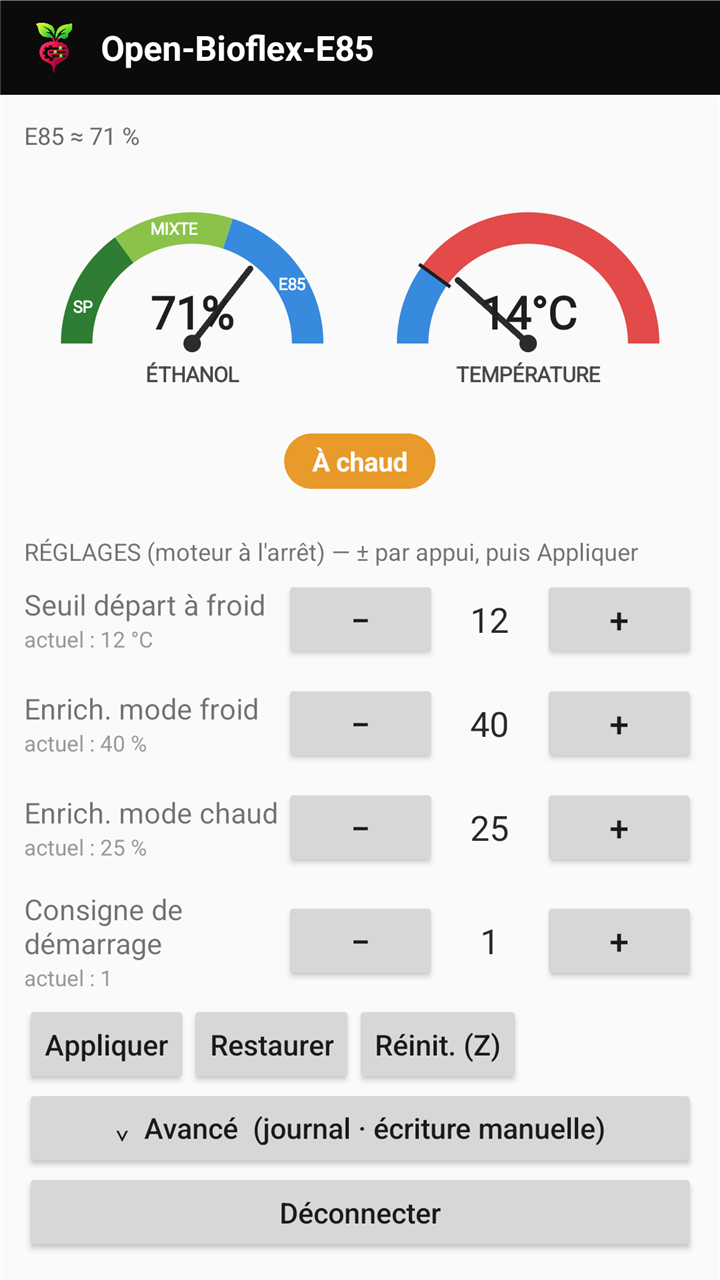
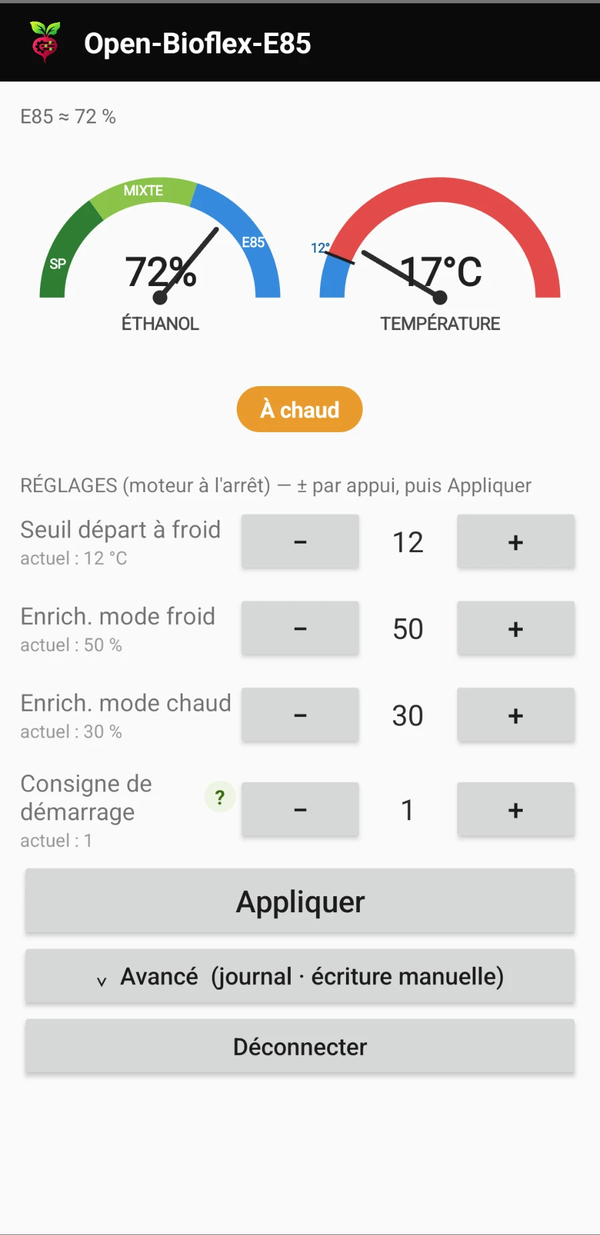
Thème nuit + captures réelles
- Bouton ☾ / ☀ en haut à droite : bascule clair / nuit, choix mémorisé
- Palette appliquée aux écrans, jauges et réglages ; liaison BLE conservée au changement
- Captures d'écran réelles (tableau de bord + sélection) à la place des anciennes

diff --git a/app/src/xyz/ylia/bioflex/MainActivity.java b/app/src/xyz/ylia/bioflex/MainActivity.java
@@ -134,13 +134,48 @@ public class MainActivity extends Activity {
     File logFile;
     final SimpleDateFormat ts = new SimpleDateFormat("HH:mm:ss.SSS", Locale.US);
 
+    // --- Thème clair / nuit ----------------------------------------------
+    // Couleurs dépendantes du thème, fixées par loadTheme() avant de construire l'UI.
+    boolean night = false;
+    int cBg, cText, cDim, cCard;
+    void loadTheme() {
+        night = getSharedPreferences("prefs", MODE_PRIVATE).getBoolean("night", false);
+        if (night) {   // nuit
+            cBg = 0xFF121212; cText = 0xFFECECEC; cDim = 0xFF9AA0A6; cCard = 0xFF2A2A2A;
+        } else {       // clair
+            cBg = 0xFFFAFAFA; cText = 0xFF1F1F1F; cDim = 0xFF6B6B6B; cCard = 0xFFF0F0F0;
+        }
+    }
+    // Bascule le thème et reconstruit l'UI sans couper la liaison Bluetooth.
+    void toggleTheme() {
+        getSharedPreferences("prefs", MODE_PRIVATE).edit().putBoolean("night", !night).apply();
+        boolean wasDash = flipper != null && flipper.getDisplayedChild() == 1;
+        loadTheme();
+        buildUi();
+        if (wasDash || !lastSnapshot.isEmpty()) {
+            flipper.setDisplayedChild(1);
+            setWriteEnabled(connected);
+            if (!lastSnapshot.isEmpty()) updateLive(lastSnapshot);
+        } else {
+            startScan();
+        }
+    }
+
     // =====================================================================
     @Override protected void onCreate(Bundle b) {
         super.onCreate(b);
         // Garder l'écran allumé tant que l'appli est au premier plan (usage en roulant).
         getWindow().addFlags(android.view.WindowManager.LayoutParams.FLAG_KEEP_SCREEN_ON);
 
+        loadTheme();
+        buildUi();
+        initBle();
+    }
+
+    // Construit toute l'interface (rejouée à chaque changement de thème).
+    void buildUi() {
         flipper = new android.widget.ViewFlipper(this);
+        flipper.setBackgroundColor(cBg);
 
         // ===== Écran 1 : sélection du boîtier =====
         LinearLayout scanScreen = new LinearLayout(this);
@@ -151,7 +186,7 @@ public class MainActivity extends Activity {
         int pad = dp(14); selBody.setPadding(pad, pad, pad, pad);
         scanStatus = new TextView(this);
         scanStatus.setText("Recherche du boîtier…");
-        scanStatus.setTextColor(0xFF6B6B6B); scanStatus.setTextSize(13);
+        scanStatus.setTextColor(cDim); scanStatus.setTextSize(13);
         selBody.addView(scanStatus);
         rescanBtn = btn("Rescanner", v -> startScan());
         selBody.addView(rescanBtn);
@@ -159,7 +194,7 @@ public class MainActivity extends Activity {
         selBody.addView(demoBtn);
         TextView hint = new TextView(this);
         hint.setText("Les boîtiers Biomotors apparaissent en vert.");
-        hint.setTextColor(0xFF9A9A9A); hint.setTextSize(11);
+        hint.setTextColor(cDim); hint.setTextSize(11);
         hint.setPadding(0, dp(8), 0, dp(4));
         selBody.addView(hint);
         deviceBox = new LinearLayout(this);
@@ -179,7 +214,7 @@ public class MainActivity extends Activity {
 
         status = new TextView(this);
         status.setText("Connecté.");
-        status.setTextColor(0xFF6B6B6B); status.setTextSize(12);
+        status.setTextColor(cDim); status.setTextSize(12);
         body.addView(status);
 
         LinearLayout gauges = new LinearLayout(this);
@@ -194,11 +229,11 @@ public class MainActivity extends Activity {
 
         modeBadge = new TextView(this);
         modeBadge.setText("Mode : —");
-        modeBadge.setTextColor(0xFF2D5208); modeBadge.setTextSize(13);
+        modeBadge.setTextColor(cText); modeBadge.setTextSize(13);
         modeBadge.setTypeface(android.graphics.Typeface.DEFAULT_BOLD);
         modeBadge.setGravity(android.view.Gravity.CENTER);
         modeBadge.setPadding(dp(16), dp(6), dp(16), dp(6));
-        modeBadge.setBackground(rounded(0xFFF3F7EC, dp(14)));
+        modeBadge.setBackground(rounded(cCard, dp(14)));
         LinearLayout badgeWrap = new LinearLayout(this);
         badgeWrap.setGravity(android.view.Gravity.CENTER);
         badgeWrap.setPadding(0, dp(2), 0, dp(10));
@@ -231,14 +266,16 @@ public class MainActivity extends Activity {
         writeBox.setOrientation(LinearLayout.VERTICAL);
         TextView wHdr = new TextView(this);
         wHdr.setText("Écriture manuelle (moteur à l'arrêt) — lettre + valeur");
-        wHdr.setTextSize(11);
+        wHdr.setTextSize(11); wHdr.setTextColor(cDim);
         writeBox.addView(wHdr);
         LinearLayout manualRow = new LinearLayout(this);
         letterInput = new EditText(this);
+        letterInput.setTextColor(cText); letterInput.setHintTextColor(cDim);
         letterInput.setHint("Lettre");
         letterInput.setFilters(new android.text.InputFilter[]{ new android.text.InputFilter.AllCaps(), new android.text.InputFilter.LengthFilter(1) });
         letterInput.setLayoutParams(new LinearLayout.LayoutParams(0, -2, 1f));
         valueInput = new EditText(this);
+        valueInput.setTextColor(cText); valueInput.setHintTextColor(cDim);
         valueInput.setHint("Valeur");
         valueInput.setInputType(InputType.TYPE_CLASS_TEXT | InputType.TYPE_TEXT_FLAG_CAP_CHARACTERS);
         valueInput.setLayoutParams(new LinearLayout.LayoutParams(0, -2, 2f));
@@ -256,7 +293,7 @@ public class MainActivity extends Activity {
 
         TextView fHdr = new TextView(this);
         fHdr.setText("Champs lus :");
-        fHdr.setTextSize(11);
+        fHdr.setTextSize(11); fHdr.setTextColor(cDim);
         advancedBox.addView(fHdr);
         fieldsBox = new LinearLayout(this);
         fieldsBox.setOrientation(LinearLayout.VERTICAL);
@@ -264,7 +301,7 @@ public class MainActivity extends Activity {
 
         output = new TextView(this);
         output.setTypeface(android.graphics.Typeface.MONOSPACE);
-        output.setTextSize(11);
+        output.setTextSize(11); output.setTextColor(cText);
         advancedBox.addView(output);
 
         body.addView(advancedBox);
@@ -280,7 +317,10 @@ public class MainActivity extends Activity {
         flipper.addView(scanScreen);
         flipper.addView(dashScreen);
         setContentView(flipper);
+    }
 
+    // Journal + initialisation Bluetooth : une seule fois (pas à chaque thème).
+    void initBle() {
         // Fichier journal dans Android/data/xyz.ylia.bioflex/files/ (accessible)
         try {
             logFile = new File(getExternalFilesDir(null),
@@ -311,7 +351,17 @@ public class MainActivity extends Activity {
         t.setTextColor(0xFFFFFFFF); t.setTextSize(18);
         t.setTypeface(android.graphics.Typeface.DEFAULT_BOLD);
         t.setPadding(dp(10), 0, 0, 0);
+        t.setLayoutParams(new LinearLayout.LayoutParams(0, -2, 1f)); // pousse le bouton à droite
         h.addView(t);
+        // Bouton thème (haut à droite) : lune en clair, soleil en nuit.
+        TextView themeBtn = new TextView(this);
+        themeBtn.setText(night ? "☀" : "☾");
+        themeBtn.setTextColor(0xFFFFFFFF); themeBtn.setTextSize(20);
+        themeBtn.setGravity(android.view.Gravity.CENTER);
+        themeBtn.setPadding(dp(12), dp(2), dp(6), dp(2));
+        themeBtn.setContentDescription("Basculer le thème clair / nuit");
+        themeBtn.setOnClickListener(v -> toggleTheme());
+        h.addView(themeBtn);
         return h;
     }
     void disconnectAndScan() {
@@ -617,8 +667,8 @@ public class MainActivity extends Activity {
             modeBadge.setBackground(rounded(cold ? 0xFF378ADD : 0xFFE89A2B, dp(16)));
         } else {
             modeBadge.setText("Mode : —");
-            modeBadge.setTextColor(0xFF9A9A9A);
-            modeBadge.setBackground(rounded(0xFFF0F0F0, dp(16)));
+            modeBadge.setTextColor(cDim);
+            modeBadge.setBackground(rounded(cCard, dp(16)));
         }
 
         updateReglagesCurrent(f);
@@ -652,10 +702,10 @@ public class MainActivity extends Activity {
             lab = (kind == ETHANOL) ? "ÉTHANOL" : "TEMPÉRATURE";
             float d = getResources().getDisplayMetrics().density;
             pZone.setStyle(Paint.Style.STROKE); pZone.setStrokeWidth(17 * d); pZone.setStrokeCap(Paint.Cap.BUTT);
-            pNeedle.setColor(0xFF2B2B2B); pNeedle.setStrokeWidth(3.5f * d); pNeedle.setStrokeCap(Paint.Cap.ROUND);
-            pTick.setColor(0xFF1F1F1F); pTick.setStrokeWidth(2f * d);
-            pBig.setColor(0xFF1F1F1F); pBig.setTextAlign(Paint.Align.CENTER); pBig.setFakeBoldText(true); pBig.setTextSize(27 * d);
-            pLab.setColor(0xFF4A4A4A); pLab.setTextAlign(Paint.Align.CENTER); pLab.setFakeBoldText(true); pLab.setTextSize(12 * d);
+            pNeedle.setColor(cText); pNeedle.setStrokeWidth(3.5f * d); pNeedle.setStrokeCap(Paint.Cap.ROUND);
+            pTick.setColor(cText); pTick.setStrokeWidth(2f * d);
+            pBig.setColor(cText); pBig.setTextAlign(Paint.Align.CENTER); pBig.setFakeBoldText(true); pBig.setTextSize(27 * d);
+            pLab.setColor(cDim); pLab.setTextAlign(Paint.Align.CENTER); pLab.setFakeBoldText(true); pLab.setTextSize(12 * d);
             pZl.setColor(0xFFFFFFFF); pZl.setTextAlign(Paint.Align.CENTER); pZl.setFakeBoldText(true); pZl.setTextSize(9.5f * d);
             pSeuil.setColor(0xFF185FA5); pSeuil.setTextAlign(Paint.Align.CENTER); pSeuil.setFakeBoldText(true); pSeuil.setTextSize(9f * d);
         }
@@ -717,7 +767,7 @@ public class MainActivity extends Activity {
         reglagesBox.setOrientation(LinearLayout.VERTICAL);
         TextView hdr = new TextView(this);
         hdr.setText("\nRÉGLAGES (moteur à l'arrêt) — ± par appui, puis Appliquer");
-        hdr.setTextSize(12);
+        hdr.setTextSize(12); hdr.setTextColor(cDim);
         reglagesBox.addView(hdr);
         for (String[] s : SETTINGS) {
             final String letter = s[0];
@@ -731,7 +781,7 @@ public class MainActivity extends Activity {
             LinearLayout labRow = new LinearLayout(this);
             labRow.setGravity(android.view.Gravity.CENTER_VERTICAL);
             labRow.setLayoutParams(new LinearLayout.LayoutParams(-1, -2)); // pleine largeur de la colonne
-            TextView lab = new TextView(this); lab.setText(s[1]); lab.setTextSize(14);
+            TextView lab = new TextView(this); lab.setText(s[1]); lab.setTextSize(14); lab.setTextColor(cText);
             // poids 1 : le libellé prend la place restante et laisse le "?" visible à sa droite
             lab.setLayoutParams(new LinearLayout.LayoutParams(0, -2, 1f));
             labRow.addView(lab);
@@ -752,12 +802,12 @@ public class MainActivity extends Activity {
                 labRow.addView(q);
             }
             TextView cur = new TextView(this); cur.setText("actuel : —"); cur.setTextSize(11);
-            cur.setTextColor(0xFF9A9A9A);
+            cur.setTextColor(cDim);
             col.addView(labRow); col.addView(cur);
             currentView.put(letter, cur);
             rowL.addView(col);
             Button minus = btn("−", v -> stepStaged(letter, -1)); minus.setTextSize(18);
-            TextView val = new TextView(this); val.setText("—"); val.setTextSize(18);
+            TextView val = new TextView(this); val.setText("—"); val.setTextSize(18); val.setTextColor(cText);
             val.setGravity(android.view.Gravity.CENTER); val.setMinWidth(dp(60));
             stagedView.put(letter, val);
             Button plus = btn("+", v -> stepStaged(letter, +1)); plus.setTextSize(18);
@@ -813,7 +863,7 @@ public class MainActivity extends Activity {
         if (v == null || st == null) return;
         v.setText(String.valueOf(st));
         Integer snap = snapInt(letter);
-        v.setTextColor(snap != null && !snap.equals(st) ? 0xFF4E7A16 : 0xFF2B2B2B);
+        v.setTextColor(snap != null && !snap.equals(st) ? 0xFF6FBF2F : cText);
     }
     void updateReglagesCurrent(Map<String,String> f) {
         // Relecture après « Appliquer » : on repart de l'état réel du boîtier (évite de

diff --git a/docs/GUIDE-APP.md b/docs/GUIDE-APP.md
@@ -44,6 +44,7 @@ accès internet.
 - Réglage du seuil de départ à froid, des enrichissements et de la consigne de démarrage
 - Chaque écriture vérifiée par l'écho du boîtier (✓ confirmé / ⚠ non confirmé)
 - Mode aperçu : le tableau de bord avec des données fictives, sans boîtier
+- Thème clair ou nuit, au choix (bouton ☾ / ☀ en haut à droite)
 
 **Avancé**
 - Journal complet exportable (trames hex/ASCII, écritures)
@@ -53,6 +54,8 @@ accès internet.
 <br clear="right">
 
 ## Installation et connexion
+
+<img src="img/ecran-selection.png" alt="Écran de sélection du boîtier" width="250" align="right">
 
 L'installation suit celle de toute application hors Play Store : ouvrir l'APK, autoriser les
 sources inconnues, puis accorder la permission Bluetooth (« Appareils à proximité » sur
@@ -64,7 +67,10 @@ lance le scan. Le boîtier apparaît en vert en tête de liste, les autres appar
 Un appui lance la connexion et ouvre le tableau de bord. En cas de perte de liaison,
 l'application revient à l'écran de sélection et relance la recherche. Un bouton
 **« Aperçu de l'écran »** permet aussi d'ouvrir le tableau de bord avec des données fictives,
-sans boîtier (écriture désactivée) — utile pour voir l'interface.
+sans boîtier (écriture désactivée) — utile pour voir l'interface. Le bouton **☾ / ☀** en haut
+à droite bascule entre le thème clair et le thème nuit ; le choix est mémorisé.
+
+<br clear="right">
 
 ## Utilisation normale
 

diff --git a/app/README.md b/app/README.md
@@ -14,6 +14,8 @@ fois par seconde et écrit les réglages. Le mode d'emploi est dans le
   consigne de démarrage. *Appliquer* affiche un récapitulatif *ancienne → nouvelle*, écrit
   champ par champ, puis compare l'écho du boîtier à la commande envoyée.
 - **Mode aperçu** : tableau de bord avec des données fictives, sans connexion.
+- **Thème clair / nuit** : bouton ☾ / ☀ dans l'en-tête ; choix mémorisé (`SharedPreferences`),
+  l'UI est reconstruite sans couper la liaison Bluetooth (`loadTheme()` + `buildUi()`).
 - **Avancé** : journal complet (scan, événements GATT, notifications hex + ASCII, trame,
   décodage) exportable dans *Téléchargements*, écriture d'une commande brute, réécriture
   d'un champ à l'identique, *Restaurer* (valeurs d'origine de la session).

diff --git a/README.md b/README.md
@@ -46,6 +46,7 @@ dur trouvé dans l'application.
 - Réglage du seuil, des enrichissements froid/chaud et de la consigne de démarrage
 - Chaque écriture vérifiée par l'écho du boîtier
 - Mode aperçu : le tableau de bord avec des données fictives, sans boîtier
+- Thème clair ou nuit (bouton ☾ / ☀ en haut à droite)
 
 **Application — avancé**
 - Journal complet exportable (trames hex/ASCII, écritures)
